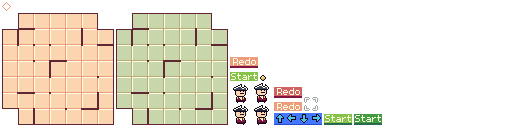
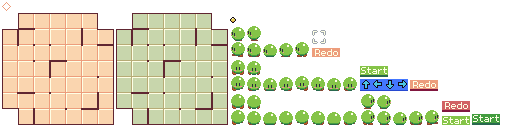
new player

Changed region(s): [[0.4375, 0.1875, 1.0, 1.0], [0.5938, 0.2188, 0.6562, 0.2812], [0.4375, 0.125, 0.4688, 0.1875]]

diff --git a/core/src/main/java/com/distraction/glj9/tile/Player.java b/core/src/main/java/com/distraction/glj9/tile/Player.java
@@ -11,34 +11,39 @@ import com.distraction.glj9.utils.Utils;
 public class Player extends Entity {
 
     private final Animation<TextureRegion> animation;
+    private final TextureRegion[][][] sheets;
     private final TextureRegion[] idleSprites;
-    private final TextureRegion[] walkSprites;
-    private boolean mirror;
 
-    private boolean started = false;
     private float bouncy;
 
     protected Player(Context context, int row, int col, Direction direction) {
         super(context, row, col, direction);
 
-        w = 21;
-        h = 20;
-        idleSprites = context.getImage("playeridle").split(w, h)[0];
-        walkSprites = context.getImage("playerwalk").split(w, h)[0];
-        animation = new Animation<>(idleSprites, 0.5f);
+        w = 16;
+        h = 16;
+        sheets = new TextureRegion[][][] {
+            context.getImage("playerup").split(w, h),
+            context.getImage("playerleft").split(w, h),
+            context.getImage("playerdown").split(w, h),
+            context.getImage("playerright").split(w, h),
+        };
+        idleSprites = new TextureRegion[]{sheets[direction.ordinal()][0][0], sheets[direction.ordinal()][0][1]};
+        animation = new Animation<>(idleSprites, 0.4f);
     }
 
-    @Override
-    public void start() {
-        super.start();
-        animation.set(walkSprites, 0.2f);
+    public void redo() {
+        animation.set(idleSprites, 0.4f);
+    }
+
+    public void setDirection(Direction direction) {
+        this.direction = direction;
+        animation.set(sheets[direction.ordinal()][1], 0.05f);
     }
 
     @Override
     public void moveDirection(Direction direction) {
         super.moveDirection(direction);
-        if (direction == Direction.RIGHT) mirror = false;
-        else if (direction == Direction.LEFT) mirror = true;
+        animation.set(sheets[direction.ordinal()][1], 0.05f);
     }
 
     @Override
@@ -52,6 +57,6 @@ public class Player extends Entity {
     public void render(SpriteBatch sb) {
         super.render(sb);
         sb.setColor(Color.WHITE);
-        Utils.drawCentered(sb, animation.get(), x, y + bouncy + 8, mirror);
+        Utils.drawCentered(sb, animation.get(), x, y + 4);
     }
 }

diff --git a/core/src/main/java/com/distraction/glj9/tile/TileMap.java b/core/src/main/java/com/distraction/glj9/tile/TileMap.java
@@ -36,7 +36,7 @@ public class TileMap {
     private int[][] tiles;
     private int numRows;
     private int numCols;
-    private Entity player;
+    private Player player;
     private List<Entity> ghosts;
     private List<Entity> arrows;
     private List<Entity> collectibles;
@@ -102,7 +102,8 @@ public class TileMap {
         for (EntityData e : data.entityDataList) {
             if (e.type == EntityData.EntityType.PLAYER) {
                 player.setTile(numRows - e.row - 1, e.col);
-                player.direction = e.direction;
+                player.setDirection(e.direction);
+                player.redo();
             } else if (e.type == EntityData.EntityType.GHOST) {
                 ghosts.add(new Ghost(context, numRows - e.row - 1, e.col, e.direction));
             }

diff --git a/core/src/main/java/com/distraction/glj9/tile/Ghost.java b/core/src/main/java/com/distraction/glj9/tile/Ghost.java
@@ -13,6 +13,7 @@ public class Ghost extends Entity {
     private final Animation<TextureRegion> animation;
     private boolean mirror;
 
+    private float time;
     private float bouncy;
 
     protected Ghost(Context context, int row, int col, Direction direction) {
@@ -33,7 +34,11 @@ public class Ghost extends Entity {
     @Override
     public void update(float dt) {
         animation.update(dt);
-        bouncy = Math.abs(MathUtils.sin(animation.getProgress() * MathUtils.PI) * 2);
+        if (!started) bouncy = 0f;
+        else {
+            time += dt;
+            bouncy = Math.abs(MathUtils.sin(time * MathUtils.PI) * 2);
+        }
     }
 
     @Override

diff --git a/core/src/main/java/com/distraction/glj9/tile/Entity.java b/core/src/main/java/com/distraction/glj9/tile/Entity.java
@@ -21,7 +21,7 @@ public abstract class Entity {
     protected int w, h;
     protected Direction direction;
 
-    private boolean started = false;
+    protected boolean started = false;
 
     protected Entity(Context context) {
         this.context = context;

diff --git a/core/src/main/java/com/distraction/glj9/utils/Animation.java b/core/src/main/java/com/distraction/glj9/utils/Animation.java
@@ -14,6 +14,8 @@ public class Animation<T> {
     public void set(T[] list, float interval) {
         this.list = list;
         this.interval = interval;
+        time = 0;
+        index = 0;
     }
 
     public void update(float dt) {
